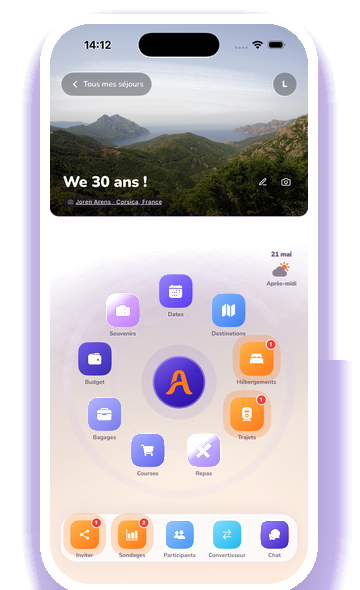
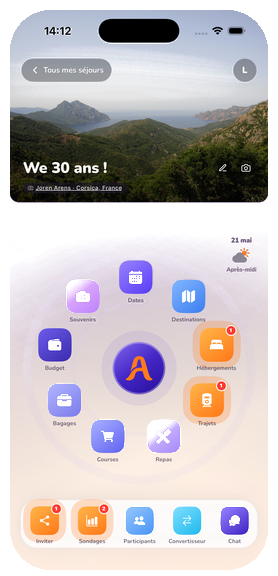
Détourage propre du mockup téléphone + iOS au lieu d'iPhone

diff --git a/index.html b/index.html
@@ -286,7 +286,7 @@
       <!-- Téléchargement -->
       <div class="download" id="telecharger">
         <h2>Prêts pour le prochain séjour&nbsp;?</h2>
-        <p>Disponible sur iPhone et Android.</p>
+        <p>Disponible sur iOS et Android.</p>
         <div class="badges">
           <a class="badge-apple" href="https://apps.apple.com/fr/app/id6762174268">
             <img src="https://tools.applemediaservices.com/api/badges/download-on-the-app-store/black/fr-fr" alt="Télécharger dans l'App Store" />
